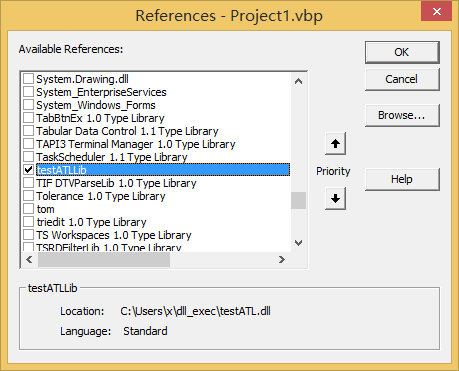
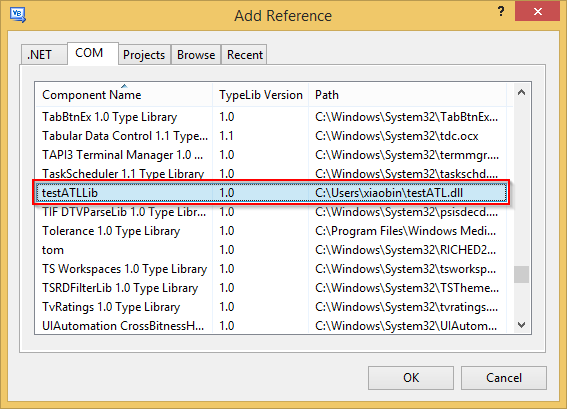
update vb to v9.0

diff --git a/post/com-wizards-vc/index.html b/post/com-wizards-vc/index.html
@@ -29,7 +29,7 @@
     
     <meta property="og:description" content="atl" />
   	<meta property="og:type" content="article" />
-    <meta property="article:published_time" content="2022-05-18T12:08:08&#43;08:00" />
+    <meta property="article:published_time" content="2022-05-18T16:08:08&#43;08:00" />
 
     
     
@@ -92,15 +92,15 @@
     },
     "headline": "创建COM",
     "name": "创建COM",
-    "wordCount":  178 ,
+    "wordCount":  173 ,
     "timeRequired": "PT1M",
     "inLanguage": {
       "@type": "Language",
       "alternateName": "en"
     },
     "url": "https://tdtc-hrb.github.io/csdn/post/com-wizards-vc/",
-    "datePublished": "2022-05-18T12:08Z",
-    "dateModified": "2022-05-18T12:08Z",
+    "datePublished": "2022-05-18T16:08Z",
+    "dateModified": "2022-05-18T16:08Z",
     
     
     "description": "atl",
@@ -168,7 +168,7 @@
 
         <section class="post-meta">
         
-          <time class="post-date" datetime="2022-05-18T12:08:08&#43;08:00">
+          <time class="post-date" datetime="2022-05-18T16:08:08&#43;08:00">
             May 18, 2022
           </time>
         
@@ -250,12 +250,11 @@
 </span></span></code></pre></div><p>解决办法： <br>
 安装Windows 8.1/Windows 10 SDK</p>
 <h1 id="四test">四、test</h1>
-<p>使用VB6进行测试.</p>
+<p>使用VB2008进行测试.</p>
 <ul>
 <li>OS <br>
 Windows 8.1 Professional(x86)</li>
-<li>VS<br>
-<a href="https://winworldpc.com/product/microsoft-visual-stu/60">v6.0</a></li>
+<li><a href="https://download.microsoft.com/download/e/8/e/e8eeb394-7f42-4963-a2d8-29559b738298/vs2008expresswithsp1enux1504728.iso">VS 2008 express</a></li>
 </ul>
 <h2 id="os">Os</h2>
 <p><a href="https://aka.ms/vs/17/release/vc_redist.x86.exe">Vc 14.2</a></p>
@@ -269,30 +268,19 @@ Windows 8.1 Professional(x86)</li>
 <li>ucrtbased.dll</li>
 </ul>
 <pre tabindex="0"><code>C:\Windows\SysWOW64\
-</code></pre><h2 id="vs">VS</h2>
-<ul>
-<li><a href="https://dl.winworldpc.com/Microsoft%20Visual%20Studio%206.0%20Service%20Pack%205%20(2001)%20%5BEN%20FR%20SP%5D%20(ISO).7z">SP5</a> <br>
-exec &ldquo;SetupSp5.exe&rdquo;</li>
-<li><a href="https://dl.winworldpc.com/Microsoft%20Visual%20Studio%206.0%20Service%20Pack%206.7z">SP6</a> <br>
-exec &ldquo;SetupSp6.exe&rdquo;</li>
-<li><a href="https://www.microsoft.com/en-us/download/details.aspx?id=50722">SP6 Security Rollup Update</a></li>
-</ul>
-<h3 id="vb6-project">VB6 Project</h3>
-<p>Project -&gt; References</p>
-<!-- 中文版VB6: https://gitee.com/xiaobin80/csdn/raw/master/images/20200510193432839.png -->
-<p><img src="https://github.com/tdtc-hrb/csdn/raw/master/images/atl-import81.png" alt="vb6 import dll"></p>
+</code></pre><h2 id="vb-project">VB Project</h2>
+<p>Project -&gt; Add Reference
+<img src="https://github.com/tdtc-hrb/csdn/raw/master/images/atl-import81.png" alt="vb import dll"></p>
 <p>按钮事件：</p>
-<pre tabindex="0"><code class="language-vb6" data-lang="vb6">Private Sub Command1_Click()
-  Dim obj As New testATLLib.testSOW
-  Dim int1 As Long
-
-  int1 = obj.Add(2, 3)
-  Label1.Caption = int1
-  &#39; VB.net
-  &#39; Label1.Text = int1
-End Sub
-</code></pre><!-- Windows Xp sp3 运行: https://gitee.com/xiaobin80/csdn/raw/master/images/20200510193735439.png -->
-<p><img src="https://github.com/tdtc-hrb/csdn/raw/master/images/atl-exec81.png" alt="Windows 8.1(x86) 运行"></p>
+<div class="highlight"><pre tabindex="0" style="color:#f8f8f2;background-color:#272822;-moz-tab-size:4;-o-tab-size:4;tab-size:4;"><code class="language-vb.net" data-lang="vb.net"><span style="display:flex;"><span>    <span style="color:#66d9ef">Private</span> <span style="color:#66d9ef">Sub</span> <span style="color:#a6e22e">Button1_Click</span>(<span style="color:#66d9ef">ByVal</span> sender <span style="color:#f92672">As</span> System.Object, <span style="color:#66d9ef">ByVal</span> e <span style="color:#f92672">As</span> System.EventArgs) <span style="color:#66d9ef">Handles</span> Button1.Click
+</span></span><span style="display:flex;"><span>        <span style="color:#66d9ef">Dim</span> obj <span style="color:#f92672">As</span> <span style="color:#66d9ef">New</span> testATLLib.testSOW
+</span></span><span style="display:flex;"><span>        <span style="color:#66d9ef">Dim</span> int1 <span style="color:#f92672">As</span> <span style="color:#66d9ef">Long</span>
+</span></span><span style="display:flex;"><span>
+</span></span><span style="display:flex;"><span>        int1 <span style="color:#f92672">=</span> obj.Add(2, 3)
+</span></span><span style="display:flex;"><span>        Label1.Text <span style="color:#f92672">=</span> int1
+</span></span><span style="display:flex;"><span>    <span style="color:#66d9ef">End</span> <span style="color:#66d9ef">Sub</span>
+</span></span></code></pre></div><p><img src="https://github.com/tdtc-hrb/csdn/raw/master/images/atl-exec81.png" alt="Windows 8.1(x86) 运行">
+拷贝Interop.testATLLib.dll和WindowsApplication1.exe即可运行</p>
 <h1 id="参考文章">参考文章</h1>
 <blockquote>
 <p>MSDN</p>

diff --git a/index.html b/index.html
@@ -210,7 +210,7 @@
         
 
         
-        <time class="post-date" datetime="2022-05-18T12:08:08&#43;08:00">
+        <time class="post-date" datetime="2022-05-18T16:08:08&#43;08:00">
             18 May 2022
         </time>
     </footer>

diff --git a/post/index.html b/post/index.html
@@ -190,7 +190,7 @@
         
 
         
-        <time class="post-date" datetime="2022-05-18T12:08:08&#43;08:00">
+        <time class="post-date" datetime="2022-05-18T16:08:08&#43;08:00">
             18 May 2022
         </time>
     </footer>
